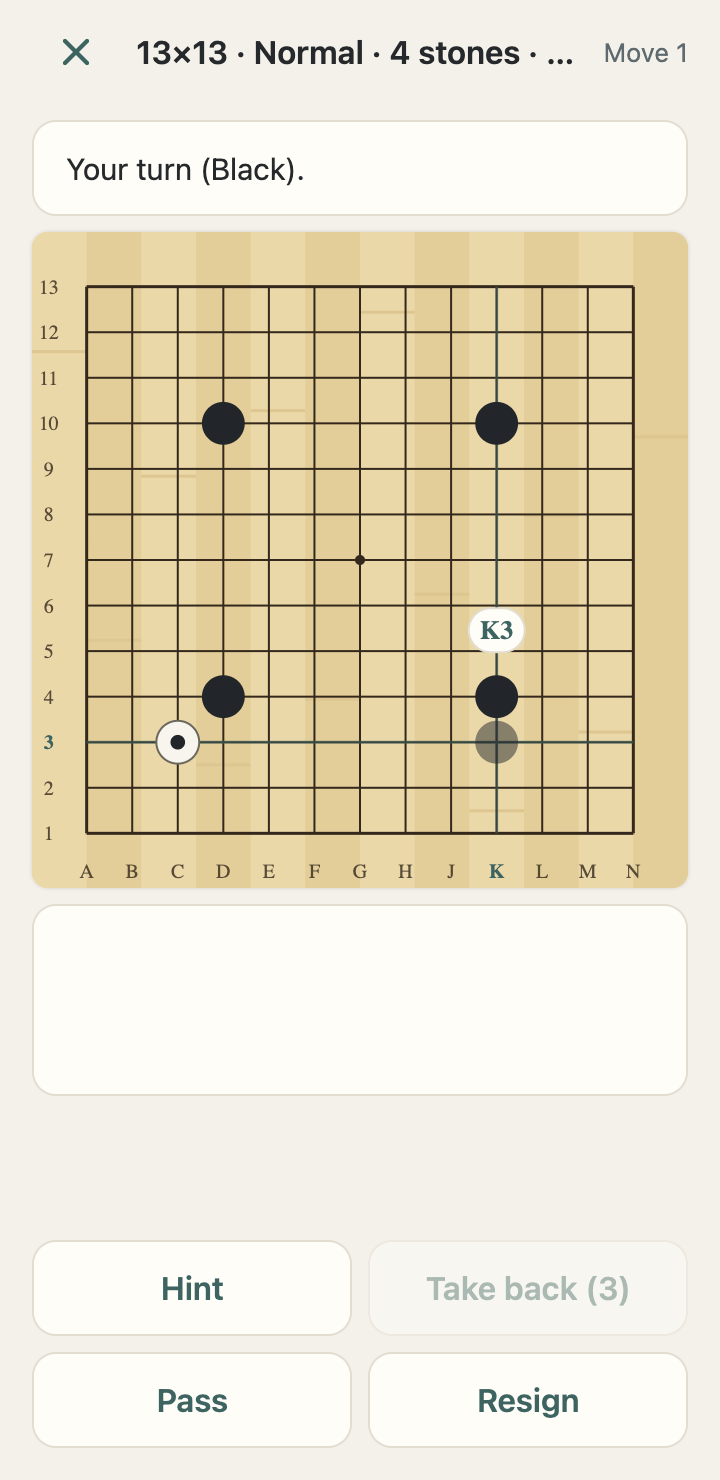
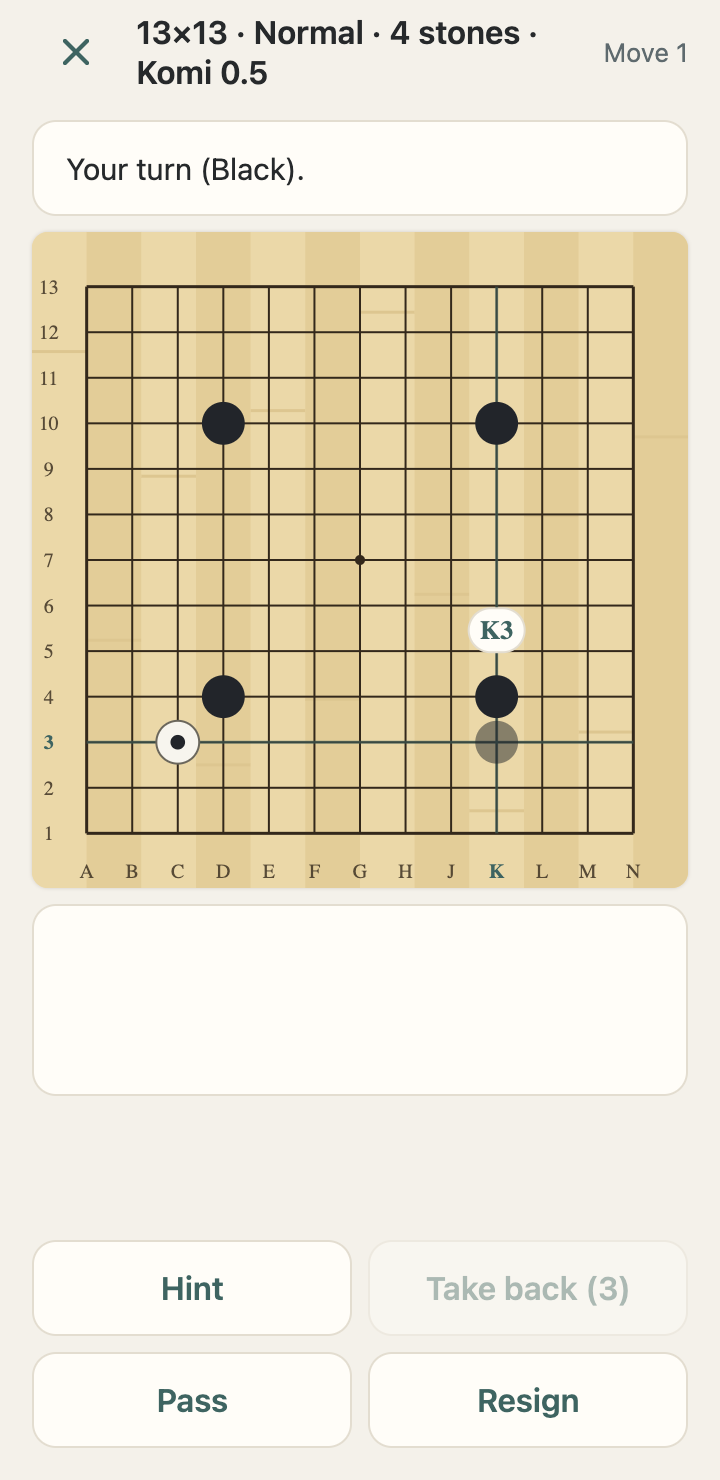
M6b 13x13: tick roadmap, update STATUS, refresh screenshots

Changed region(s): [[0.1833, 0.0, 0.5194, 0.0622], [0.55, 0.0, 0.7333, 0.0622]]

diff --git a/docs/STATUS.md b/docs/STATUS.md
@@ -109,6 +109,16 @@ Read this + `CLAUDE.md`, then continue. Keep it short; update it at the end of e
   AAB upload, testers; support email placeholder `<support email>`; public `lets-go-privacy` repo for the privacy URL); ACs 22, 26 on a
   real Android build. Claude runs `eas build`/`submit` only on the PO's explicit "go".
 
+- **M6b item 1** 13×13 game vs the bot (branch `claude/m6b-13x13-6d7869`, PO-approved spec, QA READY, 4411 tests):
+  size control 9×9 | 13×13 on `/game` (13×13 unlocked after any 9×9 win, title follows size, time note), `GAME_KOMI_13 = 6.5`
+  (handicap 0.5), `handicapStones(size, n)` 13×13 d4,k10,k4,d10,g7 (2–5), start Easy 2 / Normal 4 / Challenge 5, own auto-adjust
+  `bots13`, last size `flags.gameSize`. Bot `boardN` (alias `board9`), L3 `mcBudget` 600 playouts / 220 plies on 13×13 (~154 ms
+  mean desktop), ply cap 400. Board 328 px (cells ~25 px): existing preview/crosshair/coord tag + optional "Confirm each move"
+  (Play button replaces Hint), "Thinking…" after 0.5 s, Resign while thinking. Review hidden on 13×13. Spec
+  `docs/specs/M6b-13x13-game.md` (§12 dev deviations). Web check `npm run verify:web:m6b` (dev server :8099); screenshots
+  `docs/screenshots/M6b/`. **Pending PO:** AC 29 (L3 ≤ 2 s/move) and touch feel on a real phone. Next: M6b-2 (bot strength,
+  dead-stone count, review on 13×13), M6b-3 (coaching/danger rings on the bigger board).
+
 ## Next
 - M6 done (items 1, 1b, 1c, 2, 3). Next: the PO's first Android build per the checklist; then backlog. Later: nets 枷 and multi-answer tsumego on the
   search judge (revisit the libs > moves-left pruning, spec §9b).

diff --git a/docs/ROADMAP.md b/docs/ROADMAP.md
@@ -56,7 +56,7 @@ One checkbox ≈ one Claude Code session ≈ one PR. Paste the suggested prompt 
 
 ## M6b — 13×13 games (after the EAS Build item)
 The next board after 9×9 (PO 2026-10-24). 19×19 comes later: it needs board zoom and a stronger bot.
-- [ ] 13×13 game vs the bot: size picker, komi, handicap star points for 13×13, game screen sized for a phone
+- [x] 13×13 game vs the bot: size picker, komi, handicap star points for 13×13, game screen sized for a phone
       (tap help: preview stone, maybe a magnifier; tap targets per CLAUDE.md rule 7).
 - [ ] Bot levels, dead-stone count and review tuned for 13×13 (speed per move on a phone; win-rate targets like M6).
 - [ ] Coaching notes and danger rings checked on the bigger board.
